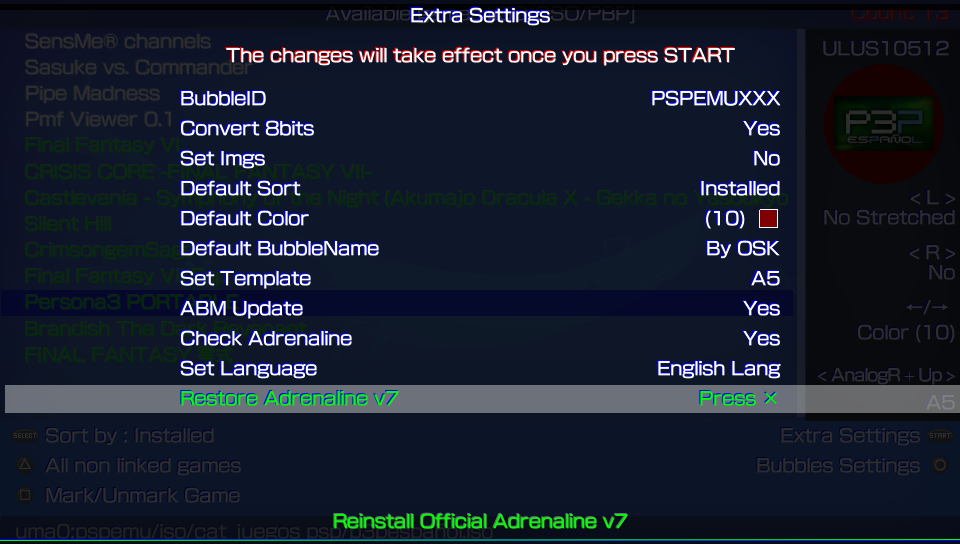
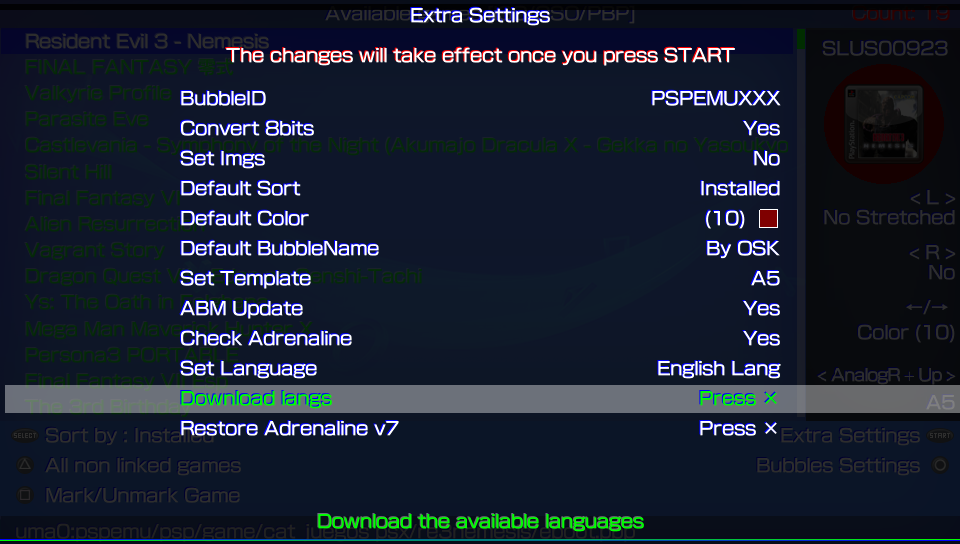
release v6.19

diff --git a/README.md b/README.md
@@ -13,7 +13,7 @@ This useful application allows you to make personalized bubbles with 'icon' and 
 
 ### Adrenaline Version v7.0 ###
 ### Adrenaline Bubble Booter Version v1.3 ###
-### Adrenaline Bubbles Manager Current Version: 6.16 ###
+### Adrenaline Bubbles Manager Current Version: 6.19 ###
 
 
 ### Instructions ###
@@ -23,6 +23,14 @@ Make sure Adrenaline works correctly, to be able to boot Adrenaline opening it j
 ux0:app/PSPEMUCFW/sce_module/adrenaline_kernel.skprx
 
 2. After taking care of step 1, then you can start using Adrenaline Bubbles Manager to create bubbles for your PSP/PSX content.
+
+### Changelog 6.19 ###
+- Added option to download availabe languages.<br>
+- Lastest ABM version is needed to be able to download newset resources for the repo Vita bubbles<br>
+
+### Changelog 6.18 ###
+- Added support for the new json format for downloading custom bubbles (preview.png)<br>
+- Now the previews are downloaded one by one. (The first time will be a bit slow)<br>
 
 ### Changelog 6.17 ###
 - Fixed bug that prevented the OSK from opening caused by CR (carriage return) on name input<br>
